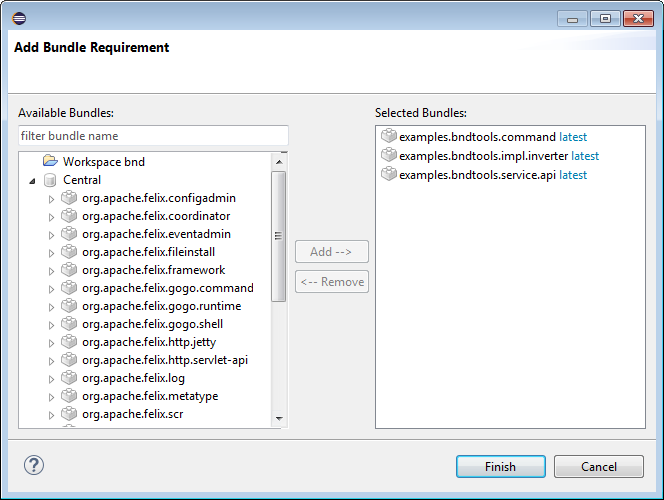
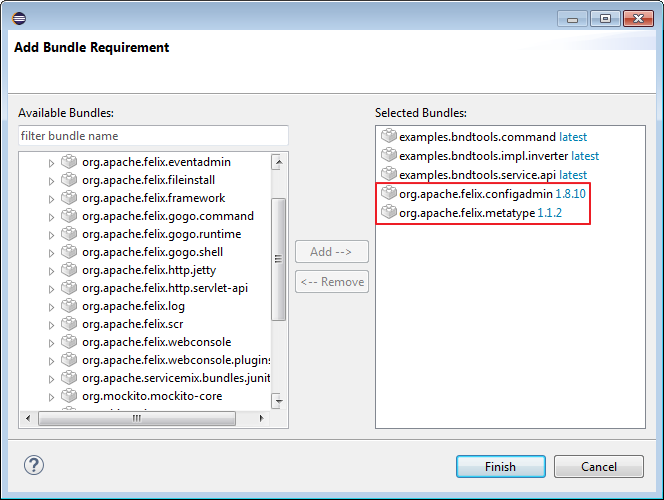
update exercise slides

diff --git a/slides/index.html b/slides/index.html
@@ -746,7 +746,7 @@ public class StringInverterCommand {
     </section>
 </section>
 
-<section id="exec1-bnd-consumer">
+<section id="exec1-bnd-launch-ide">
     <section data-markdown>
         #### Excercise 1 - bndtools - Simple Service
         
@@ -761,7 +761,7 @@ public class StringInverterCommand {
         <h4>bndtools - Launch from IDE - prepare</h4>
         <ul>
             <li>Open the file <code>launch.bndrun</code> from project<code>examples.bndtools.impl.inverter</code></li>
-            <li>Select OSGi Framework <code>org.apache.felix.framework;version='[5.4.0,5.4.0]'</code>
+            <li>Select OSGi Framework <code>org.apache.felix.framework;version='[5.4.0,5.4.0]'</code></li>
             <li>Select Execution Environment: <code>JavaSE-1.8</code></li>
             <li>In the Run Requirements add the following bundles
             <small><table>
@@ -784,9 +784,18 @@ public class StringInverterCommand {
                         <td>examples.pde.service.api</td>
                         <td>application service api</td>
                     </tr>
-                <tbody>
+                    <tr>
+                        <td>org.apache.felix.configadmin</td>
+                        <td>Apache Configuration Admin </br><small> only required due to bug in Apache Felix SCR 2.0.6</small></td>
+                    </tr>
+                    <tr>
+                        <td>org.apache.felix.metatype</td>
+                        <td>Apache OSGi Metatype Service </br><small> only required due to bug in Apache Felix SCR 2.0.6</small></td>
+                    </tr>
+                </tbody>
             </table></small>
-            <img src="images/bnd/40_add-bundle-requirements.png" height="280px" />
+            <img src="images/bnd/40_add-bundle-requirements.png" height="250px" />
+            </li>
         </ul>
     </section>
 
@@ -794,20 +803,53 @@ public class StringInverterCommand {
         <h4>bndtools - Launch from IDE - resolve</h4>
         <ul>
             <li>press the resolve button</li>
-            <img src="images/bnd/41_resolved-bundles.png" height="440px" />
+            <img src="images/bnd/41_resolve.png" height="300px" />
+            <img src="images/bnd/42_resolved-bundles.png" height="340px" />
         </ul>
     </section>
 
     <section>
-        <h4>bndtools - Launch from IDE - resolve</h4>
+        <h4>bndtools - Launch from IDE - run</h4>
         <ul>
-            <li>you can now launch this config via <code>Run OSGi</code> </li>
-            <img src="images/bnd/42_bnd-editor-launch.png" height="440px" />
+            <li>you can now launch this config via button <code>"Run OSGi"</code></li>
+            <li>enter into the console <code>modify example</code></li>
+            <img src="images/bnd/43_bnd-editor-launch.png" height="440px" />
         </ul>
     </section>
-    
 </section>
 
+<section id="exec1-bnd-export">
+    <section data-markdown>
+        #### Excercise 1 - bndtools - Simple Service
+        
+        * Service API
+        * Service Implementation
+        * Service Consumer
+        * Launch from IDE
+        * **Export and launch standalone**
+    </section>
+
+    <section>
+        <h4>bndtools - export "MegaJar"</h4>
+        <ul>
+            <li>start export via button <code>Export</code> on the top-right</li>
+            <li>select executable jar</li>
+            <li>Export to JAR: <code>C:\tmp\inverter.jar</code></li>
+            <img src="images/bnd/50_export-wizard-executable-jar.png" height="300px" />
+            <img src="images/bnd/51_export-wizard-executable-jar_2.png" height="300px" />
+        </ul>
+    </section>
+
+    <section>
+        <h4>bndtools - run stand-alone "MegaJar"</h4>
+        <ul>
+            <li>open a cmd/shell window inside <code>C:\tmp</code></li>
+            <li>launch <code>java -jar inverter.jar</code></li>
+            <li>type in the console <code>modify example</code></li>
+        </ul>
+        <img src="images/bnd/52_standalone-runtime-launch.png" height="200px" />
+    </section>
+</section>
 
 <section id="references">
     <section id="standards" data-markdown>
